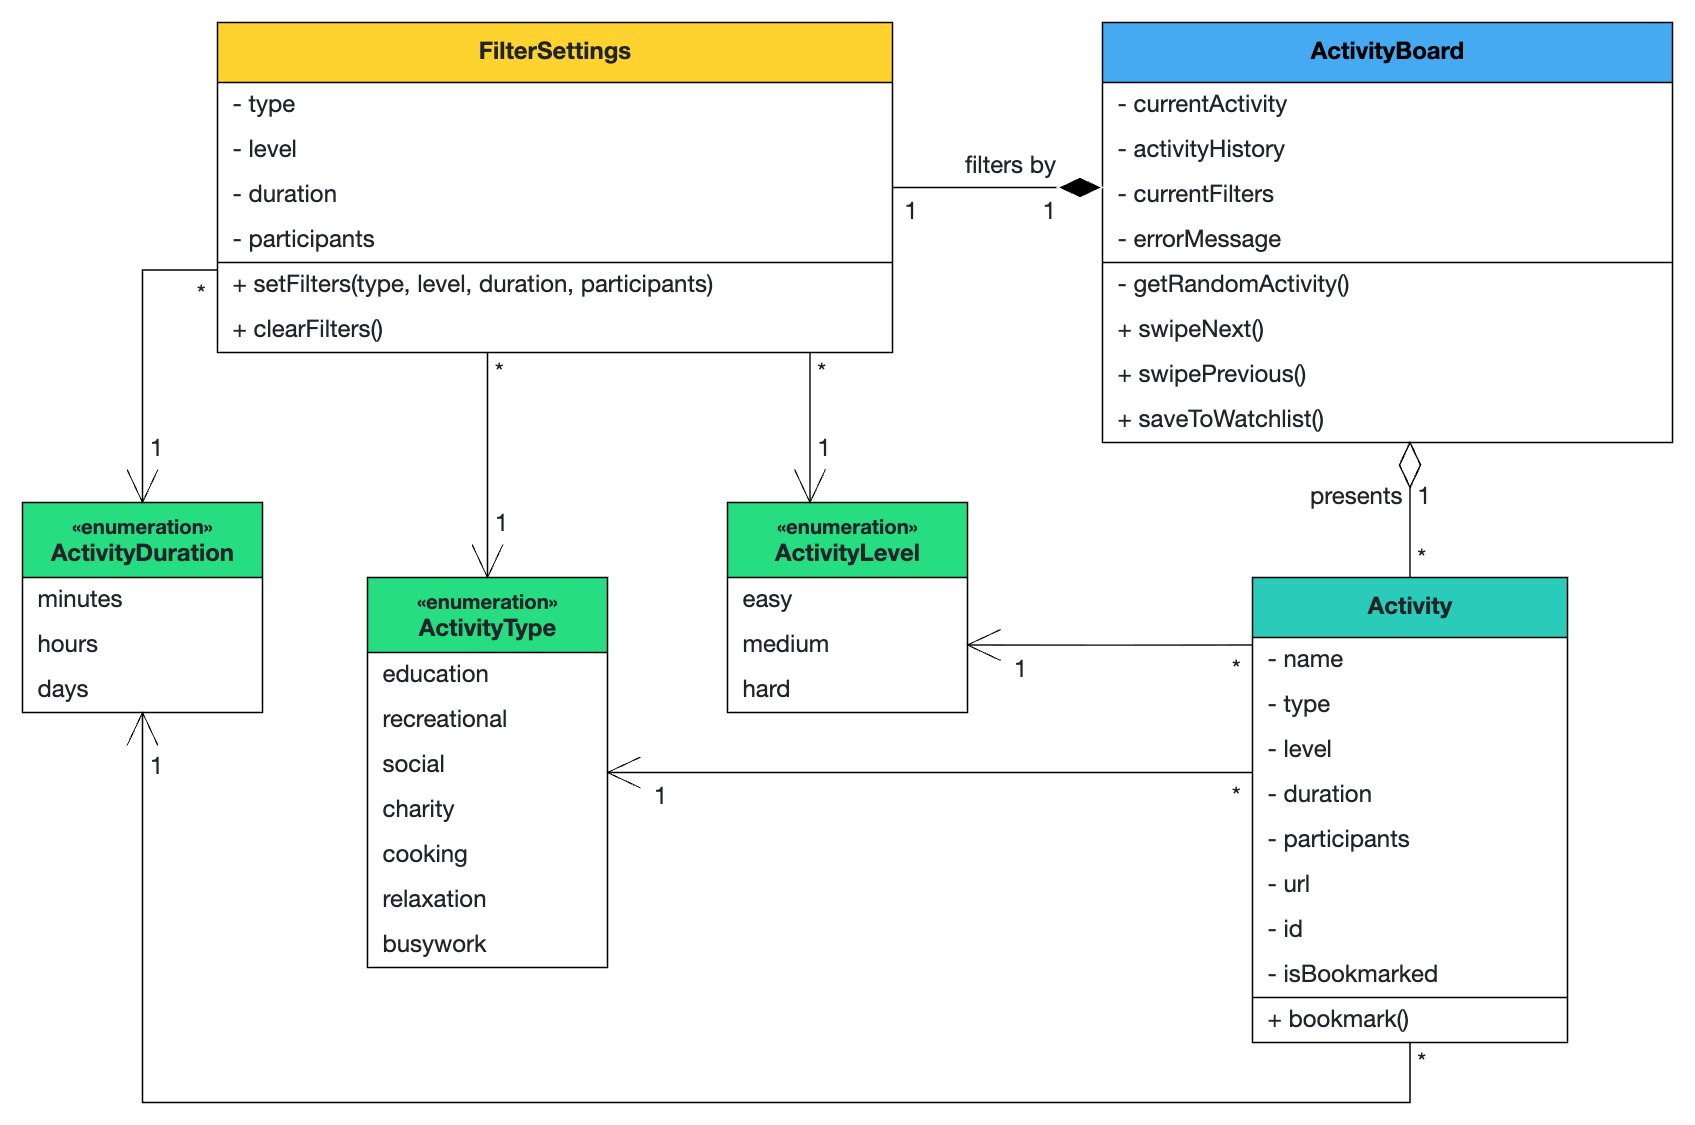
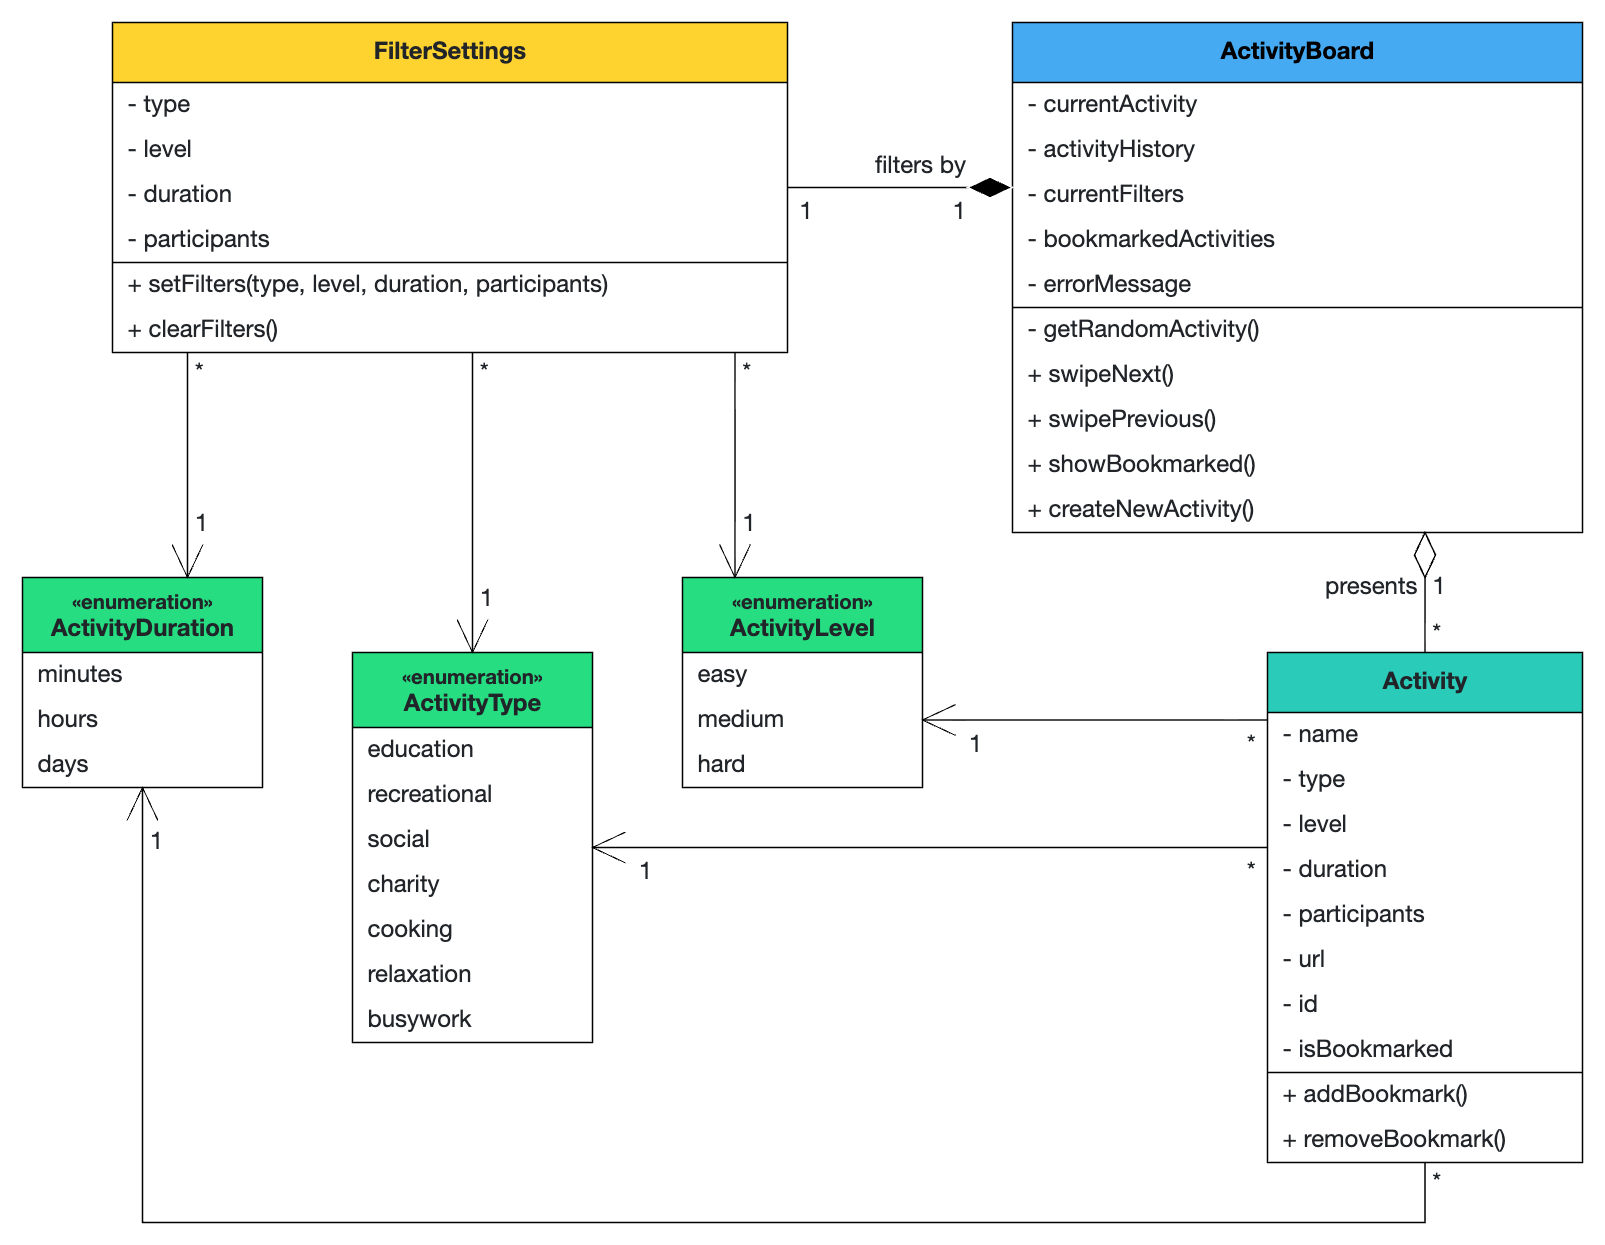
#7: Refine AOM, Abbott's Glossary, Problem Statement and User Stories

diff --git a/README.md b/README.md
@@ -87,7 +87,9 @@ Solving this problem is about more than just "curing boredom" - it is about ment
 An app that provides just a few actionable suggestions based on simple constraints removes the friction of choice. It encourages users to step outside their comfort zones: whether that means starting a new DIY project, visiting a local park they’ve ignored or learning a niche skill. By transforming a digital interaction into a physical or social output, we can reclaim "lost time" and turn it into a source of genuine quality of life.
 
 #### The Solution
-The solution is a lightweight, context-aware iOS mobile application that acts as a decision engine. By allowing users to input their constraints (category, group/individual activity, short/long activity etc.), the app filters out the noise. Instead of presenting an overwhelming list of options, the app utilizes a swipeable activity board to present one highly relevant activity at a time. This deliberate friction-free design bypasses analysis paralysis, turning a tiring search for ideas into an immediate, seemless experience.
+The solution is *Bored*: a lightweight, context-aware iOS mobile application that acts as a decision engine. It displays activity suggestions to a bored user, together with some basic information about them (type, difficulty level, duration, number of participants, URL). By allowing users to input their constraints (category, group/individual, short/long activity etc.), the app filters out the noise of irrelevant suggestions. 
+
+Instead of presenting an overwhelming list of options, the app utilizes a swipeable activity board to present one highly relevant activity at a time. By additionally allowing to bookmark activities and create custom ones, the app enables users to come back to their favorite ideas over time. This deliberate friction-free design bypasses analysis paralysis, turning a tiring search for ideas into an immediate, seemless experience.
 
 ### Requirements
 
@@ -101,9 +103,13 @@ The solution is a lightweight, context-aware iOS mobile application that acts as
 
 - As a motivated user, I want to save an activity to a Bookmark list so I can remember to do it later if I can't do it right now.
 
-- As a mood-driven user, I want to filter activities by category (e.g., Education, Relaxation, Social) so that the suggestion aligns with my current energy level.
+- As a creative user, I want to add my own activity ideas to the Bookmark list so that I can save them for later in a dedicated, unified place in the app.
+
+- As a mood-driven user, I want to filter activities by category (e.g., Education, Relaxation, Social) so that the suggestion type fits my current preferences.
 
 - As a user with limited free time, I want to be able to filter out activities that take too long in order to only see suggestions matching my time constraints.
+
+- As an occasionally tired user, I want to filter activities by difficulty level (easy, medium, hard) so that the suggestion aligns with my current energy level.
 
 - As a friend in a group, I want to specify the number of participants so that the app doesn't suggest solo activities when I'm with people.
 
@@ -202,10 +208,9 @@ Each subsection below must include:
 
 | Term | Definition |
 | :--- | :--- |
-| **Activity Board** | The primary interface for user's interactions with the app. A **lightweight** swipeable feed that **presents** users **randomized, immediate** free-time activity suggestions. Users can **swipe** to browse through options sequentially and **save** their favorites for later. |
-| **Activity** | A discrete, fulfilling action (e.g., DIY project, park visit) **presented** to the user as a call to action. The suggestions are designed to be **context-aware**, ensuring interactions remain relevant to the user’s current situation / constraints. |
+| **Activity Board** | The primary interface for user's interactions with the app. A **lightweight** swipeable feed that **presents** users **randomized, immediate** free-time activity suggestions. Users can **swipe** to browse through options sequentially, **create** their own activities and **save** their favorites for later. |
+| **Activity** | A discrete, fulfilling action (e.g., DIY project, park visit) **presented** to the user as a suggestion. These are designed to be **context-aware**, ensuring interactions remain relevant to the user’s current situation. Once **bookmarked**, an activity is persisted on the device, enabling the user to come back and **view saved** activities across sessions. |
 | **Filter Settings** | User-defined parameters (e.g., Category, Group size, Duration, Difficulty level) used as constraints to **filter out** irrelevant suggestions and ensure the suggestions provided are **context-aware**. |
-| **Bookmark** | A persistent storage container where the user can **save and view** activities they intend to perform later, keeping them **accessible and organized**. |
 
 ---
 
